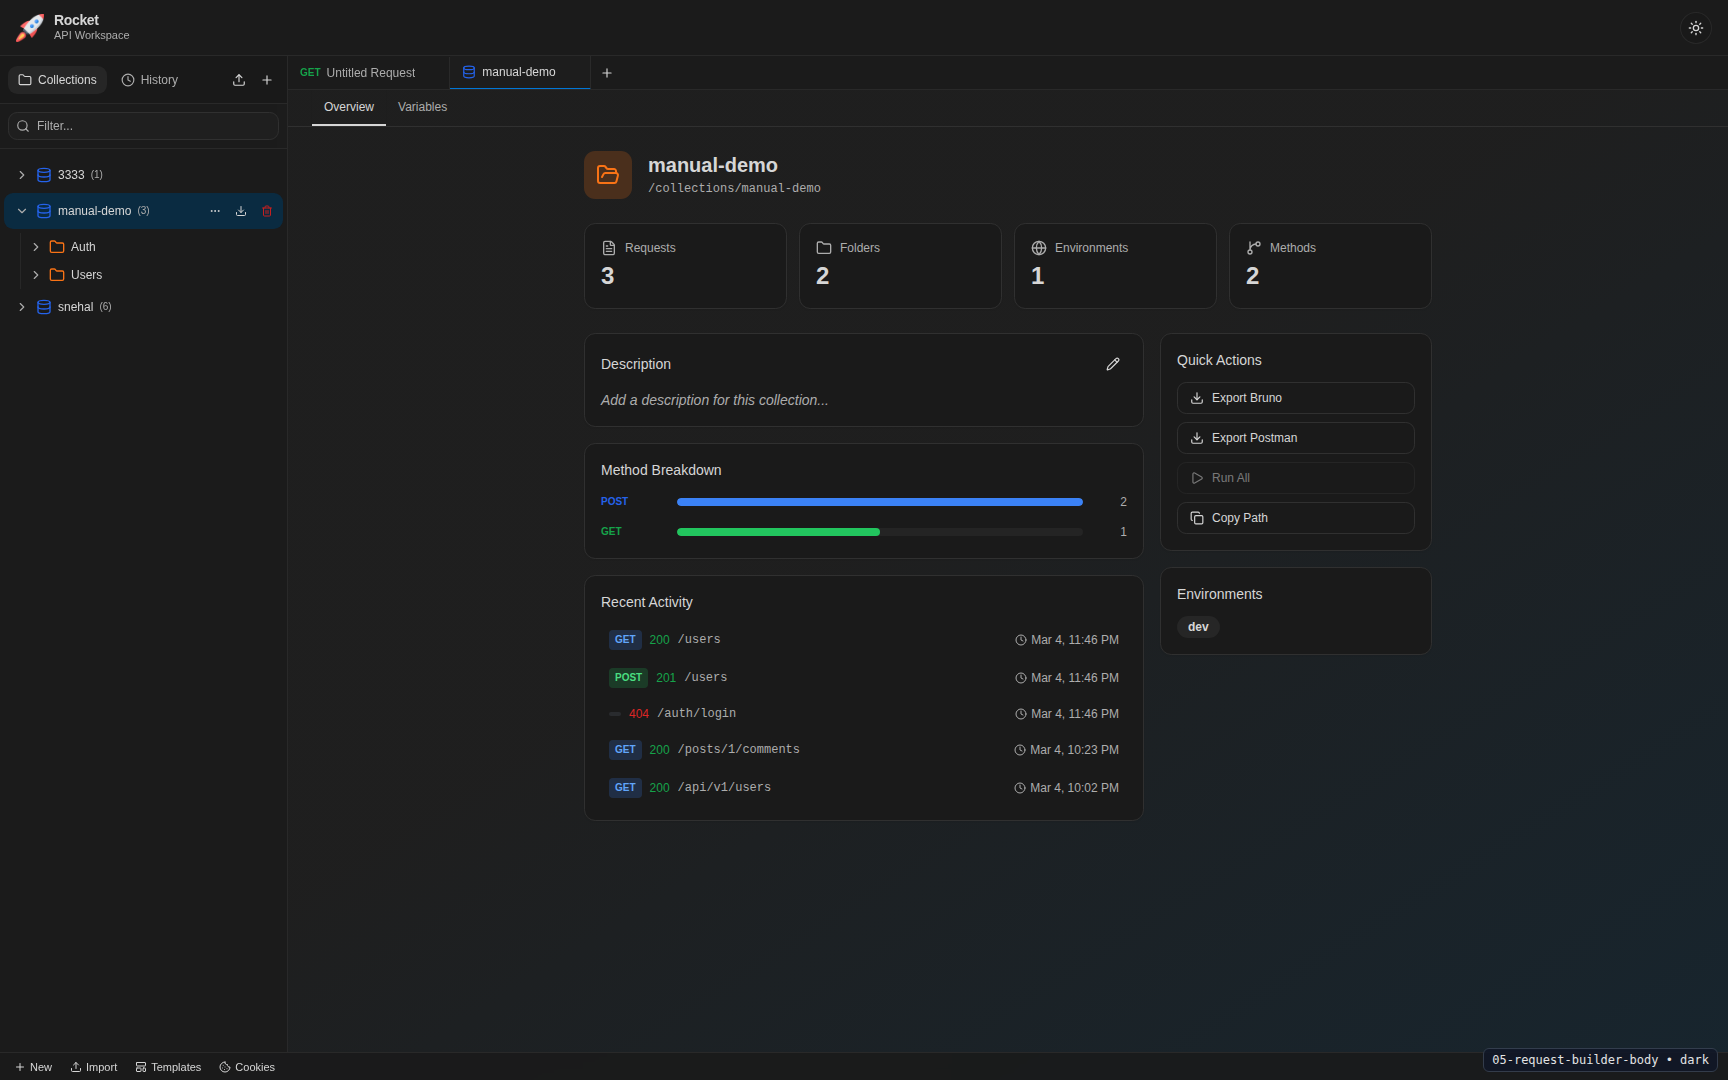
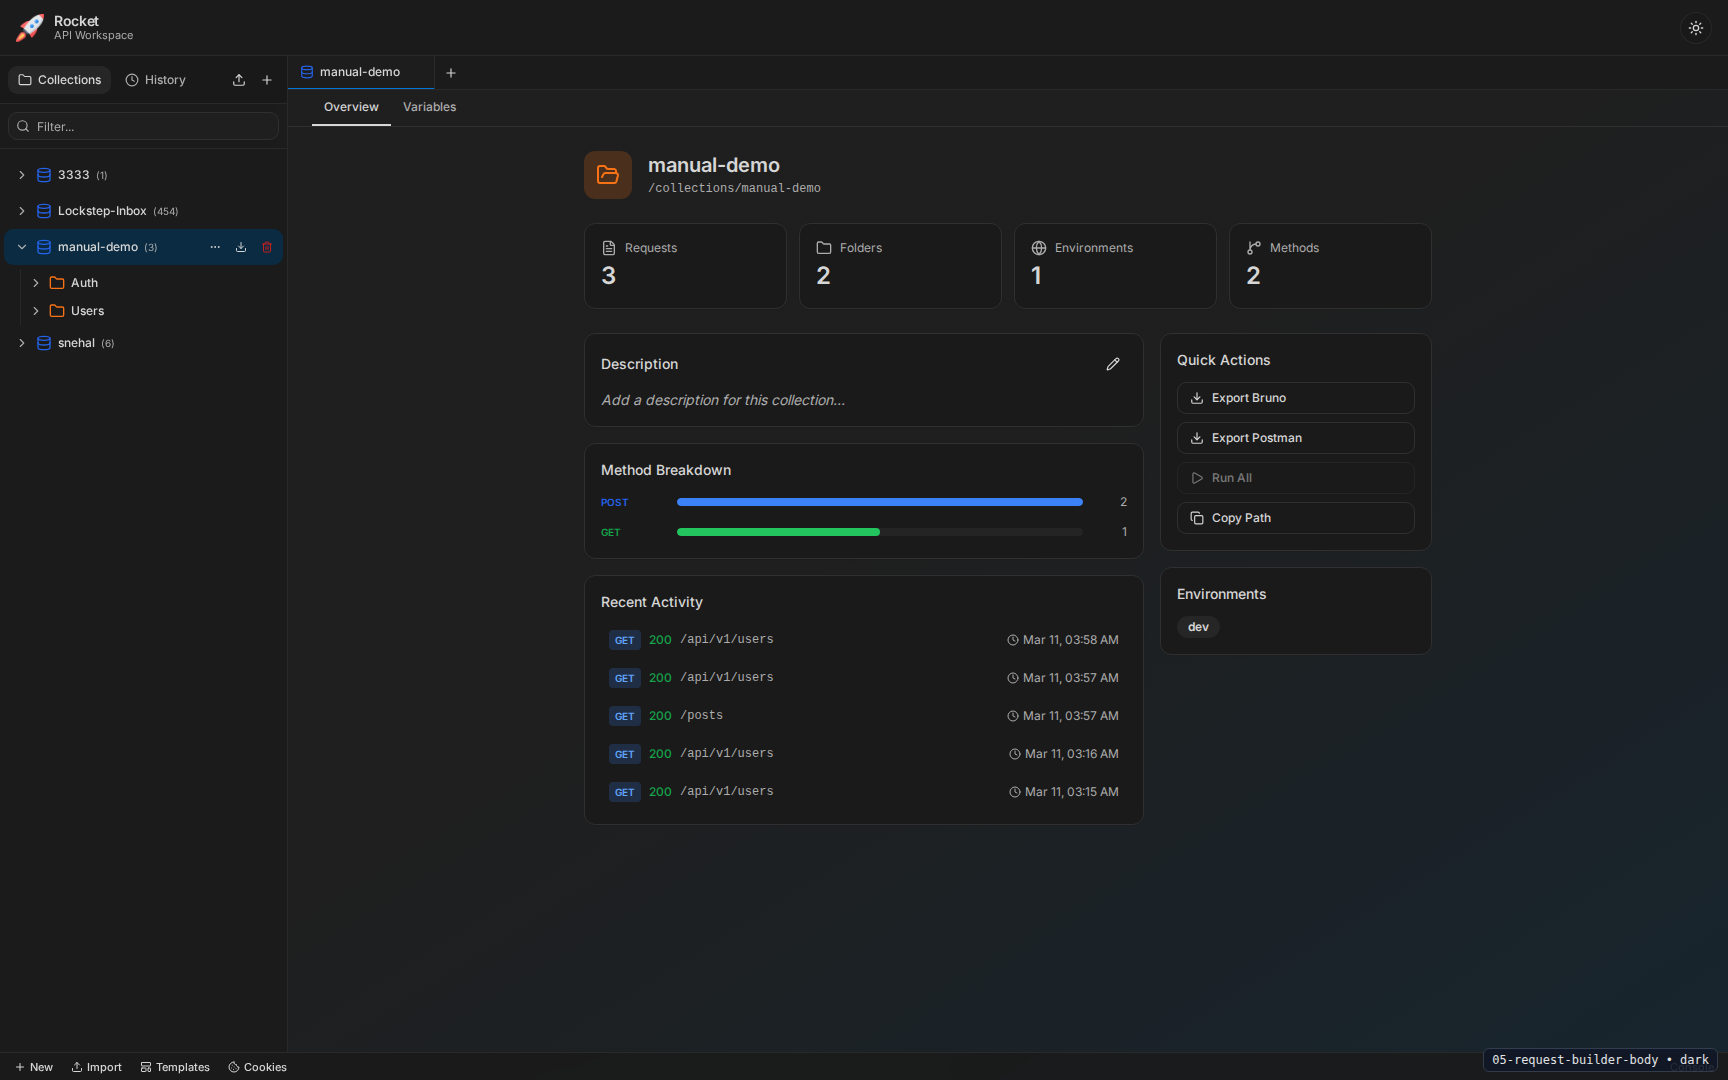
docs(manual): refresh screenshots and update manuals for welcome screen

diff --git a/docs/user-manual.md b/docs/user-manual.md
@@ -16,29 +16,44 @@ Rocket supports:
 - Cookie jar management
 - Theme support (Light and Dark)
 
-## 2. Workspace Overview
+## 2. First Launch — Welcome Screen
 
-![Workspace Overview](./manual-assets/screenshots/light/01-workspace-overview-light.png)
+![Welcome Screen (first launch)](./manual-assets/screenshots/light/01-workspace-overview-light.png)
 
-## 3. Collections, Folders, and Requests
+On first launch — or whenever all request tabs are closed — Rocket shows the welcome screen. It displays the Rocket logo, the prompt **"Launch your first request"**, and a **New Request** button.
+
+Click **New Request** (or the `+` button in the tab bar) to open a blank request and get started.
+
+## 3. Workspace Overview
+
+Once at least one tab is open, the full workspace is visible:
+
+![Workspace Overview](./manual-assets/screenshots/light/02-collections-tree-light.png)
+
+The workspace has three main areas:
+- **Left sidebar** — Collections, folders, and requests tree
+- **Tab bar** — Open request tabs; click `+` to add a new tab
+- **Main panel** — Request builder (top) and response panel (bottom)
+
+## 4. Collections, Folders, and Requests
 
 ![Collections Tree](./manual-assets/screenshots/light/02-collections-tree-light.png)
 
-### 3.1 Create a Collection
+### 4.1 Create a Collection
 1. Click `New` in the global status bar.
 2. Enter collection name.
 3. Click `Create`.
 
-### 3.2 Create Folder/Request
+### 4.2 Create Folder/Request
 1. Open collection menu (`...`).
 2. Select `New Folder` or `New Request`.
 3. Provide name and confirm.
 
-### 3.3 Open Behavior
+### 4.3 Open Behavior
 - Clicking a request opens it in a new tab if not already open.
 - Clicking an already-open request focuses the existing tab.
 
-## 4. Request Tabs
+## 5. Request Tabs
 
 ![Request Tabs](./manual-assets/screenshots/light/03-request-tabs-light.png)
 
@@ -46,16 +61,16 @@ Rocket supports:
 - Active tab selection syncs with sidebar selection.
 - Save operations target the originating tab/request.
 
-## 5. URL and Request Builder
+## 6. URL and Request Builder
 
 ![Request URL Editor](./manual-assets/screenshots/light/04-request-builder-url-light.png)
 
-### 5.1 URL Variables
+### 6.1 URL Variables
 - Use `{{variableName}}` in URL.
 - Hover variable token to open inline popout editor.
 - Save updates active environment variable first; fallback is collection variable.
 
-## 6. Headers, Query, Body, Auth
+## 7. Headers, Query, Body, Auth
 
 ![Request Body](./manual-assets/screenshots/light/05-request-builder-body-light.png)
 
@@ -66,7 +81,7 @@ Rocket supports body modes:
 - `form-data`
 - `binary`
 
-## 6.1 Scripts
+## 7.1 Scripts
 
 - Open the `Scripts` tab in Request Builder.
 - Use `Pre-request script` to modify outgoing request data (headers/body/url/variables) before send.
@@ -82,7 +97,7 @@ Current sandbox constraints:
 - No module import/require support.
 - Script runtime has execution timeout limits.
 
-## 7. Collection Variables
+## 8. Collection Variables
 
 ![Variables Editor](./manual-assets/screenshots/light/06-variables-editor-light.png)
 
@@ -92,7 +107,7 @@ Current sandbox constraints:
 - Mark secret or enable/disable variables.
 - Click `Save`.
 
-## 8. Environments
+## 9. Environments
 
 ![Environments Dialog](./manual-assets/screenshots/light/07-environments-dialog-light.png)
 
@@ -100,23 +115,25 @@ Current sandbox constraints:
 - Use environment variables to override collection variables.
 - Switch active environment to test different targets.
 
-## 9. Send Request and Analyze Response
+## 10. Send Request and Analyze Response
 
 ![Response Panel](./manual-assets/screenshots/light/08-response-panel-light.png)
 
 Response area provides:
 - Status code and status text
 - Timing and payload size
-- Headers and body viewer
+- **Headers** tab: all response headers
+- **Body** tab: syntax-highlighted JSON viewer with a Copy button
+- **Tests** tab: pass/fail results for any `pm.test()` assertions in your scripts
 
-## 10. History
+## 11. History
 
 ![History Tab](./manual-assets/screenshots/light/09-history-tab-light.png)
 
 - Open `History` tab in sidebar.
 - Click any history item to load it into active request tab.
 
-## 11. Templates
+## 12. Templates
 
 ![Templates Dialog](./manual-assets/screenshots/light/10-templates-dialog-light.png)
 
@@ -124,14 +141,14 @@ Response area provides:
 - Pick template category and template.
 - Template loads into active request tab.
 
-## 12. Cookies
+## 13. Cookies
 
 ![Cookies Dialog](./manual-assets/screenshots/light/11-cookies-dialog-light.png)
 
 - Click `Cookies` in status bar.
 - View by domain, delete specific cookies, clear expired/all.
 
-## 13. Status Bar Actions
+## 14. Status Bar Actions
 
 ![Status Bar Actions](./manual-assets/screenshots/light/12-status-bar-actions-light.png)
 
@@ -141,7 +158,7 @@ Quick actions:
 - `Templates`
 - `Cookies`
 
-## 14. Troubleshooting (User)
+## 15. Troubleshooting (User)
 
 - Request fails to send:
   - Ensure backend is running on `http://localhost:8080`.
@@ -150,7 +167,7 @@ Quick actions:
 - Variables not updating:
   - Ensure you are on the intended collection overview tab and clicked `Save`.
 
-## 15. Screenshot Coverage
+## 16. Screenshot Coverage
 
 Raw screenshots for both themes are tracked in:
 - `docs/manual-assets/screenshot-manifest.md`

diff --git a/docs/admin-developer-manual.md b/docs/admin-developer-manual.md
@@ -53,6 +53,7 @@ Expected: HTTP 200 and healthy status.
 - Current default backend URL is `http://localhost:8080/api/v1`.
 - Theme persistence key is `rocket-theme` in localStorage.
 - Request tab/session persistence key is `rocket-api:tabs-session:v1` in localStorage.
+- **Tab persistence:** The app allows an empty tab list. On first load (or when localStorage is cleared), no tabs are restored and the welcome screen is shown. This is intentional — there is no auto-created blank tab.
 
 ### 4.1 Script Runtime Notes
 
